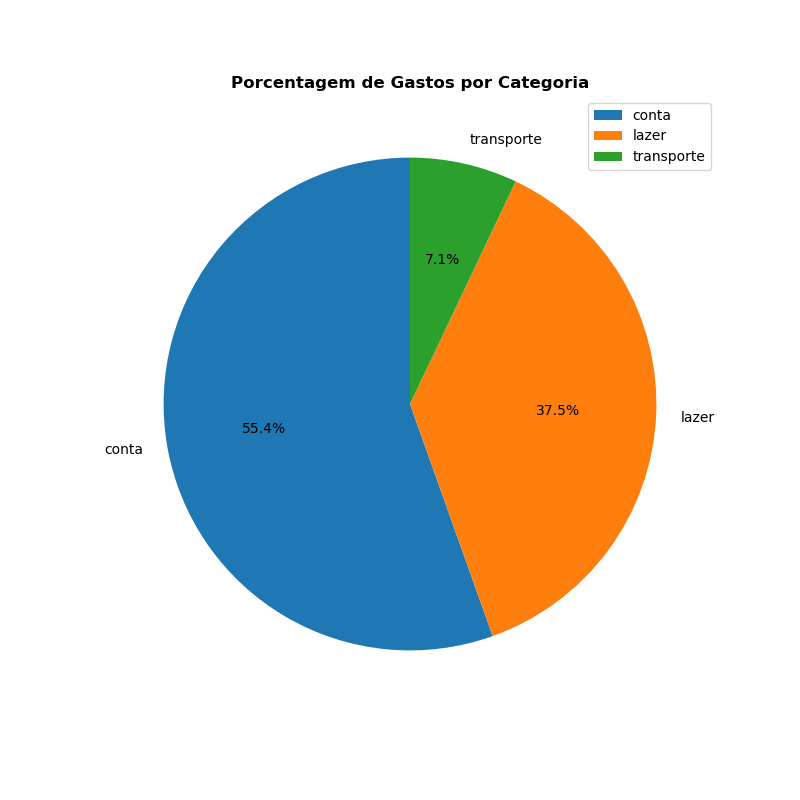
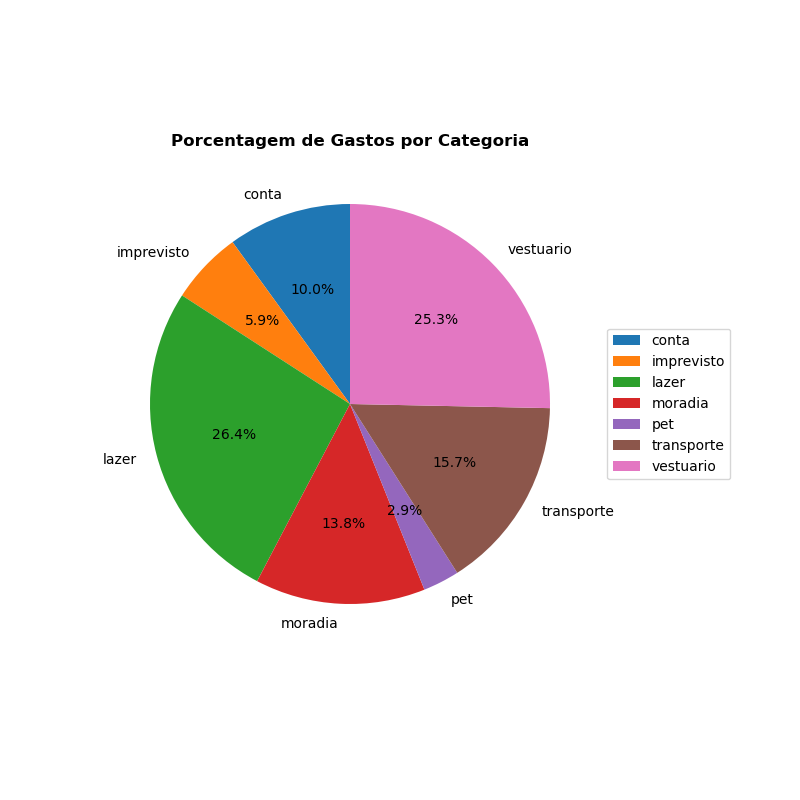
style: adicionando estilização css e correções gerais de titulo

diff --git a/templates/index.html b/templates/index.html
@@ -7,89 +7,99 @@
 
 </head>
 <body>
+<div class="container">
 
-<h1>Lançamento</h1>
-<form method="POST" action="/submitlancamento">
-    <label for="descricao">Descrição:</label><br>
-    <input type="text" name="descricao" required><br><br>
-    <select name="categoria" required>
-        <option value="" selected disabled hidden="hidden">Selecione uma categoria</option>
-        <option value="moradia">Moradia</option>
-        <option value="alimentacao">Alimentação</option>
-        <option value="transporte">Transporte</option>
-        <option value="lazer">Lazer</option>
-        <option value="saude">Saúde</option>
-        <option value="educacao">Educação</option>
-        <option value="vestuario">Vestuario</option>
-        <option value="conta">Contas</option>
-        <option value="divida">Dividas</option>
-        <option value="pet">Pets</option>
-        <option value="imprevisto">Imprevistos</option>
-        <option value="transporte">Outros</option>
-    </select> <br>
-    <label for="valor">Valor:</label><br>
-    <input type="number" step="any" name="valor" required><br>
-    <label for="data">Data:</label><br>
-    <input type="date" name="data" required><br><br>
-    <input type="submit" value="Submit">
-</form>
-<br>
-<hr>
+    <h1>Lançamento</h1>
+    <form method="POST" action="/submitlancamento">
+        <label for="descricao">Descrição:</label><br>
+        <input type="text" name="descricao" required><br><br>
+        <select name="categoria" required>
+            <option value="" selected disabled hidden="hidden">Selecione uma categoria</option>
+            <option value="moradia">Moradia</option>
+            <option value="alimentacao">Alimentação</option>
+            <option value="transporte">Transporte</option>
+            <option value="lazer">Lazer</option>
+            <option value="saude">Saúde</option>
+            <option value="educacao">Educação</option>
+            <option value="vestuario">Vestuario</option>
+            <option value="conta">Contas</option>
+            <option value="divida">Dividas</option>
+            <option value="pet">Pets</option>
+            <option value="imprevisto">Imprevistos</option>
+            <option value="transporte">Outros</option>
+        </select> <br>
+        <label for="valor">Valor:</label><br>
+        <input type="number" step="any" name="valor" required><br>
+        <label for="data">Data:</label><br>
+        <input type="date" name="data" required><br><br>
+        <input type="submit" value="Salvar Registro">
+    </form>
+    <br>
+    <hr>
 
-<h1>Pesquisa de gastos e relatório</h1>
-<form method="POST" action="/pesquisa">
+    <h1>Pesquisa de lançamentos</h1>
+    <form method="POST" action="/pesquisa">
 
-    <div>
-        <label for="data_inicio">Data Início:</label>
-        <input type="date" name="data_inicio" required>
+        <div>
+            <label for="data_inicio">Data inicial:</label>
+            <input type="date" name="data_inicio" required>
 
-        <label for="data_fim">Data Fim:</label>
-        <input type="date" name="data_fim" required>
+            <label for="data_fim">Data final:</label>
+            <input type="date" name="data_fim" required>
 
-    </div>
-
-
-    <label for="valor_minimo">Valor Mínimo:</label>
-    <input type="number" step="any" name="valor_minimo" required>
-
-    <label for="valor_maximo">Valor Máximo:</label>
-    <input type="number" step="any" name="valor_maximo" required>
+        </div>
 
 
-    <select name="pesquisa_categoria" required>
-        <option value="" selected disabled hidden="hidden">Selecione uma categoria</option>
-        <option value="todas">Todas as categorias</option>
-        <option value="moradia">Moradia</option>
-        <option value="alimentacao">Alimentação</option>
-        <option value="transporte">Transporte</option>
-        <option value="lazer">Lazer</option>
-        <option value="saude">Saúde</option>
-        <option value="educacao">Educação</option>
-        <option value="vestuario">Vestuario</option>
-        <option value="conta">Contas</option>
-        <option value="divida">Dividas</option>
-        <option value="pet">Pets</option>
-        <option value="imprevisto">Imprevistos</option>
-        <option value="outros">Outros</option>
-    </select>
-    <input type="submit" value="Submit">
+        <label for="valor_minimo">Valor mínimo:</label>
+        <input type="number" step="any" name="valor_minimo" required>
 
-</form>
-<img src="static/gastofiltrado.png">
+        <label for="valor_maximo">Valor máximo:</label>
+        <input type="number" step="any" name="valor_maximo" required>
 
 
-<h2>Grafico de gasto:</h2>
-<form method="POST" action="/relatorio">
- <button type="submit">Gerar Relatório</button><br>
-</form>
-<img src="static/relatorio.png">
+        <select name="pesquisa_categoria" required>
+            <option value="" selected disabled hidden="hidden">Selecione uma categoria</option>
+            <option value="todas">Todas as categorias</option>
+            <option value="moradia">Moradia</option>
+            <option value="alimentacao">Alimentação</option>
+            <option value="transporte">Transporte</option>
+            <option value="lazer">Lazer</option>
+            <option value="saude">Saúde</option>
+            <option value="educacao">Educação</option>
+            <option value="vestuario">Vestuario</option>
+            <option value="conta">Contas</option>
+            <option value="divida">Dividas</option>
+            <option value="pet">Pets</option>
+            <option value="imprevisto">Imprevistos</option>
+            <option value="outros">Outros</option>
+        </select>
+        <input type="submit" value="Pesquisar Lançamentos">
+
+    </form>
+    {% if pesquisa_gerada %}
+        <img src="{{ url_for('static', filename='gastofiltrado.png') }}" alt="tabela de filtros">
+    {% endif %}
+
+
+<br><hr>
+
+
+    <h2>Gráfico dos lançamentos</h2>
+    <form method="POST" action="/relatorio">
+        <button type="submit">Gerar Relatório</button>
+        <br>
+    </form>
+    {% if relatorio_gerado %}
+        <img src="{{ url_for('static', filename='relatorio.png') }}" alt="Gráfico de Gastos">
+    {% endif %}
 
 
 
 
-<br>
-<hr>
+    <br>
+    <hr>
 
-
+</div>
 </body>
+
 </html>

diff --git a/static/style.css b/static/style.css
@@ -1,23 +1,82 @@
-* {
-    margin: 0;
-    padding: 0;
-}
+
 
 body {
-    background-color: #D8DBBD;
+    font-family: Arial, sans-serif;
+    background-color: #f4f6f8;
+    color: #333;
+    margin: 0;
+    padding: 0;
+    display: flex;
+    justify-content: center;
 }
 
-a:link ,a:visited {
-    text-decoration: none;
-    color: #0B192C;
+.container {
+    max-width: 800px;
+    width: 100%;
+    padding: 30px 20px;
 }
-    a:hover {
 
-      background: white;
-    }
+h1, h2 {
+    color: #00796b;
+    text-align: center;
+}
 
-/************************************************/
+form {
+    background-color: #ffffff;
+    border: 1px solid #ddd;
+    padding: 20px;
+    border-radius: 8px;
+    margin-bottom: 30px;
+    box-shadow: 0 0 10px rgba(0,0,0,0.05);
+}
 
-.center {
+label {
+    display: block;
+    margin-top: 10px;
+    font-weight: bold;
+}
 
+input[type="text"],
+input[type="number"],
+input[type="date"],
+select {
+    width: 100%;
+    padding: 10px;
+    margin-top: 5px;
+    margin-bottom: 15px;
+    border: 1px solid #ccc;
+    border-radius: 5px;
+    box-sizing: border-box;
+}
+
+input[type="submit"],
+button {
+    background-color: #009688;
+    color: white;
+    padding: 10px 20px;
+    border: none;
+    border-radius: 5px;
+    cursor: pointer;
+    font-weight: bold;
+    transition: background-color 0.3s;
+}
+
+input[type="submit"]:hover,
+button:hover {
+    background-color: #00796b;
+}
+
+hr {
+    margin: 40px 0;
+    border: 0;
+    border-top: 1px solid #ccc;
+}
+
+img {
+    max-width: 100%;
+    height: auto;
+    display: block;
+    margin: 20px auto;
+    border: 1px solid #ddd;
+    border-radius: 8px;
 }

diff --git a/templates/cadastro.html b/templates/cadastro.html
@@ -6,7 +6,8 @@
     <link type="text/css" href="static/style.css" rel="stylesheet">
 </head>
 <body>
-     <h1>Cadastro de usuario</h1>
+<div class="container">
+     <h1>Cadastro de usuario</h1> <br>
 
     <form method="POST" action="/cadastrausuario">
         <label for="nome">Nome:</label><br>
@@ -17,8 +18,8 @@
         <input type="password" name="senha" required><br><br>
         <input type="submit" value="Submit">
     </form>
-        <a href="/login"> Fazer Login></a>
 
+</div>
 
 </body>
 </html>

diff --git a/templates/login.html b/templates/login.html
@@ -7,8 +7,12 @@
 
 </head>
 <body>
-<div class="center">
-    <h1>Usuário</h1>
+<div class="container">
+    <strong><h1>LTFinanças</h1></strong>
+
+    <br>
+
+    <h1>Login</h1>
     <form method="POST" action="/verificausuario">
         <label for="nome">Nome:</label><br>
         <input type="text" name="name" required><br>

diff --git a/app.py b/app.py
@@ -133,7 +133,7 @@ def pesquisa():
     plt.savefig(caminho, bbox_inches='tight')
     plt.close()
 
-    return render_template("index.html")
+    return render_template("index.html", pesquisa_gerada=True)
 
 
 @app.route('/relatorio', methods=['POST'])
@@ -162,10 +162,12 @@ def relatorio():
     )
 
     plt.title('Porcentagem de Gastos por Categoria', fontweight='bold')
-    plt.legend(df['categoria'], loc="best", bbox_to_anchor=(1, 1))
+    plt.legend(df['categoria'], loc='center left', bbox_to_anchor=(1, 0.5))
+    plt.subplots_adjust(right=0.75)
     plt.savefig('static/relatorio.png')
     plt.tight_layout()
-    return render_template("index.html")
+
+    return render_template("index.html", relatorio_gerado=True)
 
 
 def sessionCommit(novo_commit):
